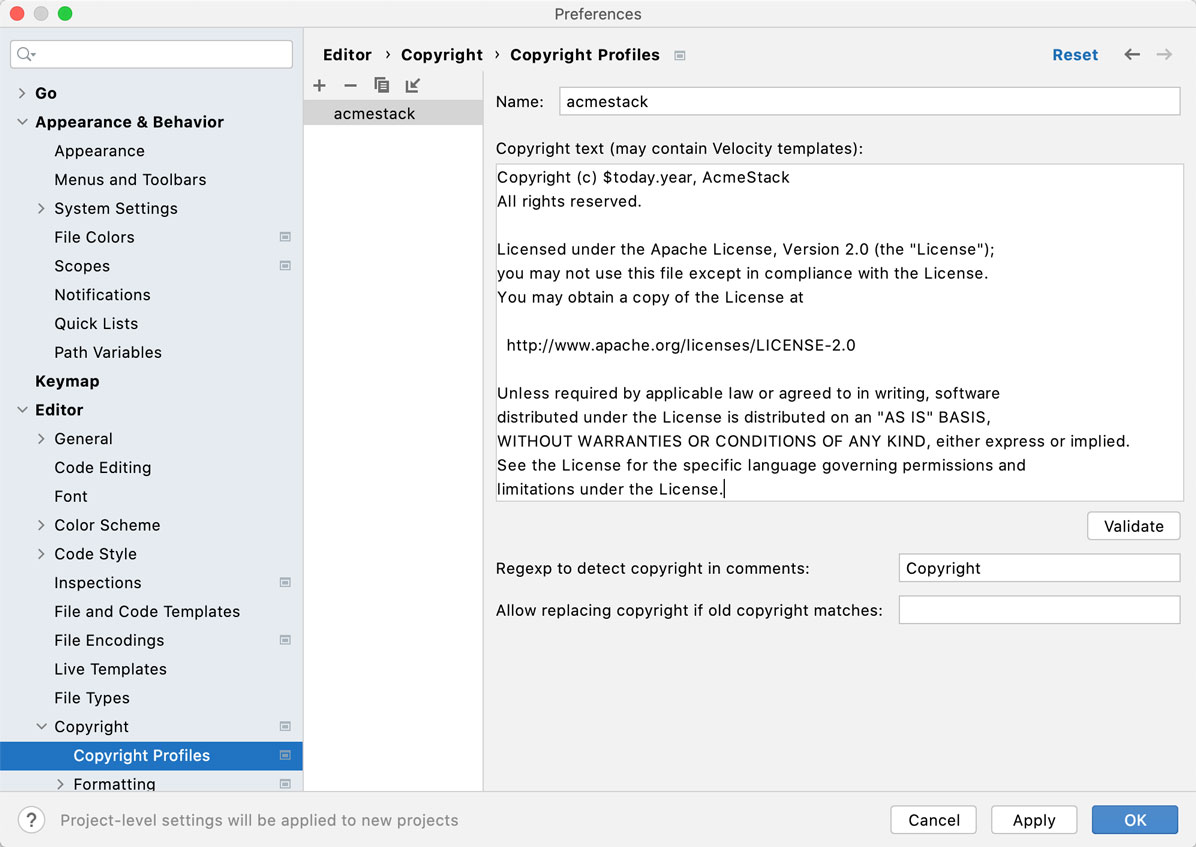
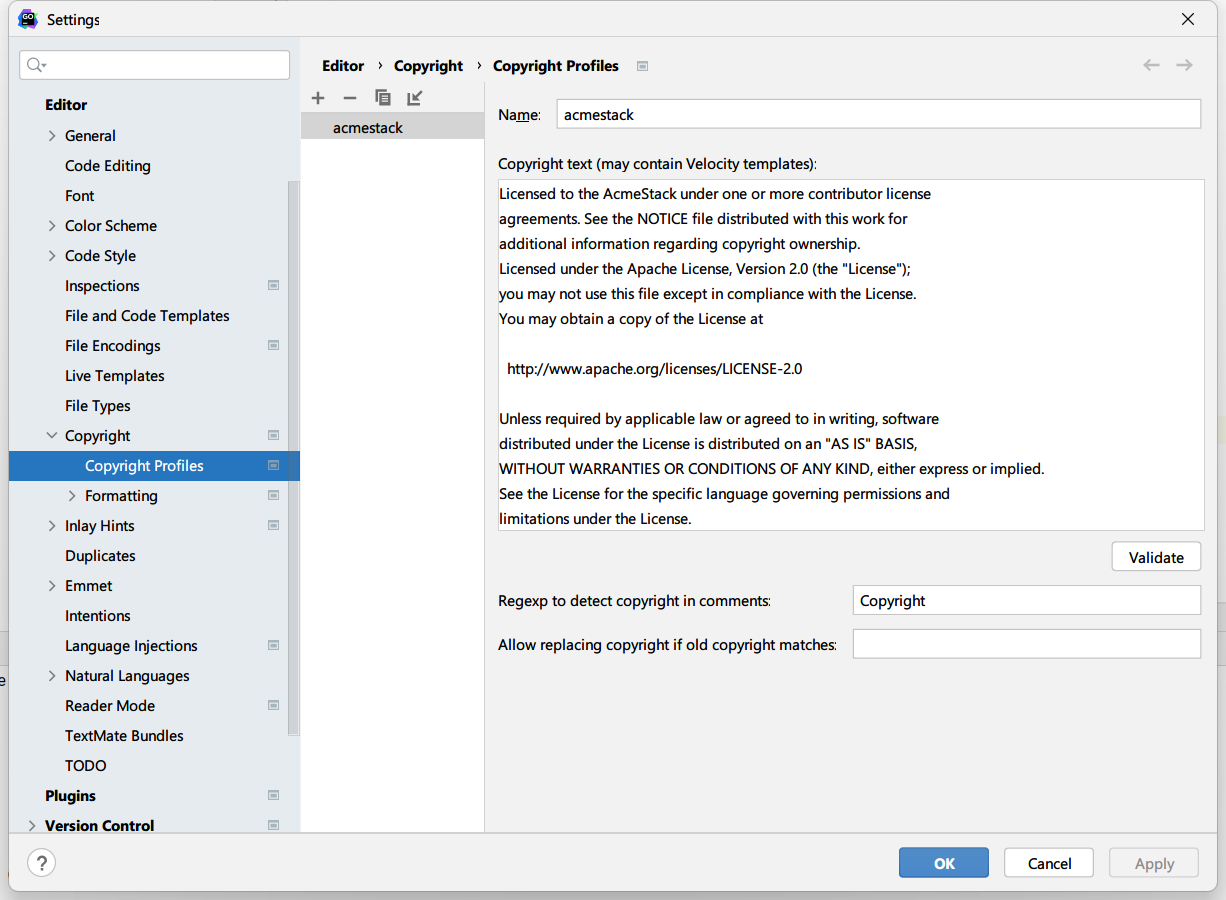
update license template

diff --git a/content/zh/docs/contributing/developer-environment-setting/index.md b/content/zh/docs/contributing/developer-environment-setting/index.md
@@ -20,9 +20,9 @@ toc: true
 > 带格式复制如下内容
 
 ```
-Copyright (c) $today.year, AcmeStack
-All rights reserved.
-
+Licensed to the AcmeStack under one or more contributor license
+agreements. See the NOTICE file distributed with this work for
+additional information regarding copyright ownership.
 Licensed under the Apache License, Version 2.0 (the "License");
 you may not use this file except in compliance with the License.
 You may obtain a copy of the License at

diff --git a/content/zh/released/v0.0.1/contributing/developer-environment-setting/index.md b/content/zh/released/v0.0.1/contributing/developer-environment-setting/index.md
@@ -20,9 +20,9 @@ toc: true
 > 带格式复制如下内容
 
 ```
-Copyright (c) $today.year, AcmeStack
-All rights reserved.
-
+Licensed to the AcmeStack under one or more contributor license
+agreements. See the NOTICE file distributed with this work for
+additional information regarding copyright ownership.
 Licensed under the Apache License, Version 2.0 (the "License");
 you may not use this file except in compliance with the License.
 You may obtain a copy of the License at

diff --git a/content/en/docs/contributing/developer-environment-setting/index.md b/content/en/docs/contributing/developer-environment-setting/index.md
@@ -20,9 +20,9 @@ toc: true
 > Copy all with format
 
 ```
-Copyright (c) $today.year, AcmeStack
-All rights reserved.
-
+Licensed to the AcmeStack under one or more contributor license
+agreements. See the NOTICE file distributed with this work for
+additional information regarding copyright ownership.
 Licensed under the Apache License, Version 2.0 (the "License");
 you may not use this file except in compliance with the License.
 You may obtain a copy of the License at

diff --git a/content/en/released/v0.0.1/contributing/developer-environment-setting/index.md b/content/en/released/v0.0.1/contributing/developer-environment-setting/index.md
@@ -20,9 +20,9 @@ toc: true
 > Copy all with format
 
 ```
-Copyright (c) $today.year, AcmeStack
-All rights reserved.
-
+Licensed to the AcmeStack under one or more contributor license
+agreements. See the NOTICE file distributed with this work for
+additional information regarding copyright ownership.
 Licensed under the Apache License, Version 2.0 (the "License");
 you may not use this file except in compliance with the License.
 You may obtain a copy of the License at
